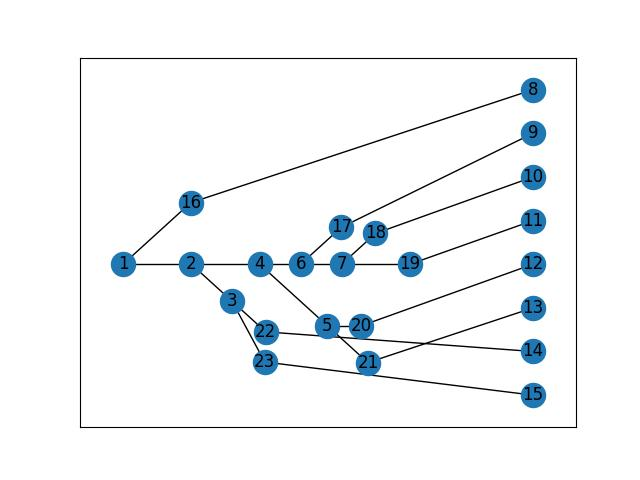
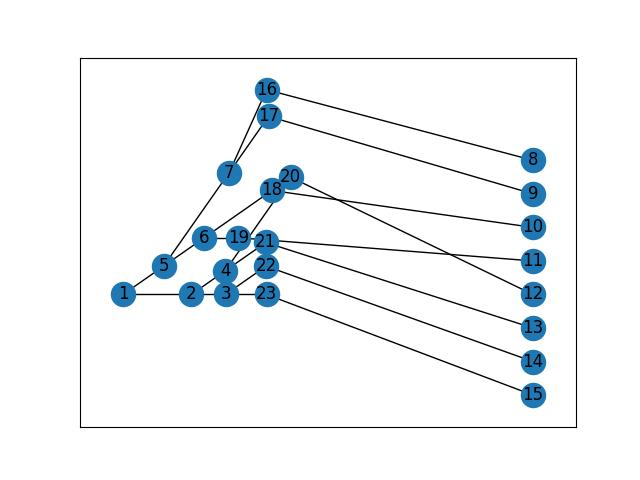
l list fix

diff --git a/main.py b/main.py
@@ -93,7 +93,7 @@ class Tree:
             # self.station_track_coordinate[id] = (self.total_length, a + i * self.station_track_space)
         # init l list & virtual node list
         if len(self.l) == 0:
-            for i in range(3 * self.n + 2):
+            for i in range(3 * self.n + 1):
                 r = int(random.random() * 3)
                 self.l.append(self.l_list[r])
         # for i in range(2 * self.n+2, self.n * 3 +3):
@@ -271,9 +271,9 @@ class Tree:
                         if k.father.right.value == k.value:
                             k.angle = k.father.angle + self.alpha * (1 + k.father.direction) / 2
                     # init node length
-                    k.length = self.l[k.value - 1]
-                    k.coordinate[0] = k.father.coordinate[0] + self.l[k.value - 1] * math.cos(k.angle)
-                    k.coordinate[1] = k.father.coordinate[1] + self.l[k.value - 1] * math.sin(k.angle)
+                    k.length = self.l[k.value - 2]
+                    k.coordinate[0] = k.father.coordinate[0] + self.l[k.value - 2] * math.cos(k.angle)
+                    k.coordinate[1] = k.father.coordinate[1] + self.l[k.value - 2] * math.sin(k.angle)
                     print(str(k.value) + '父节点：' + str(k.father.value))
                     print(str(k.value) + '方向：' + str(k.direction))
                     print(str(k.value) + '号角度：' + str(k.angle))
